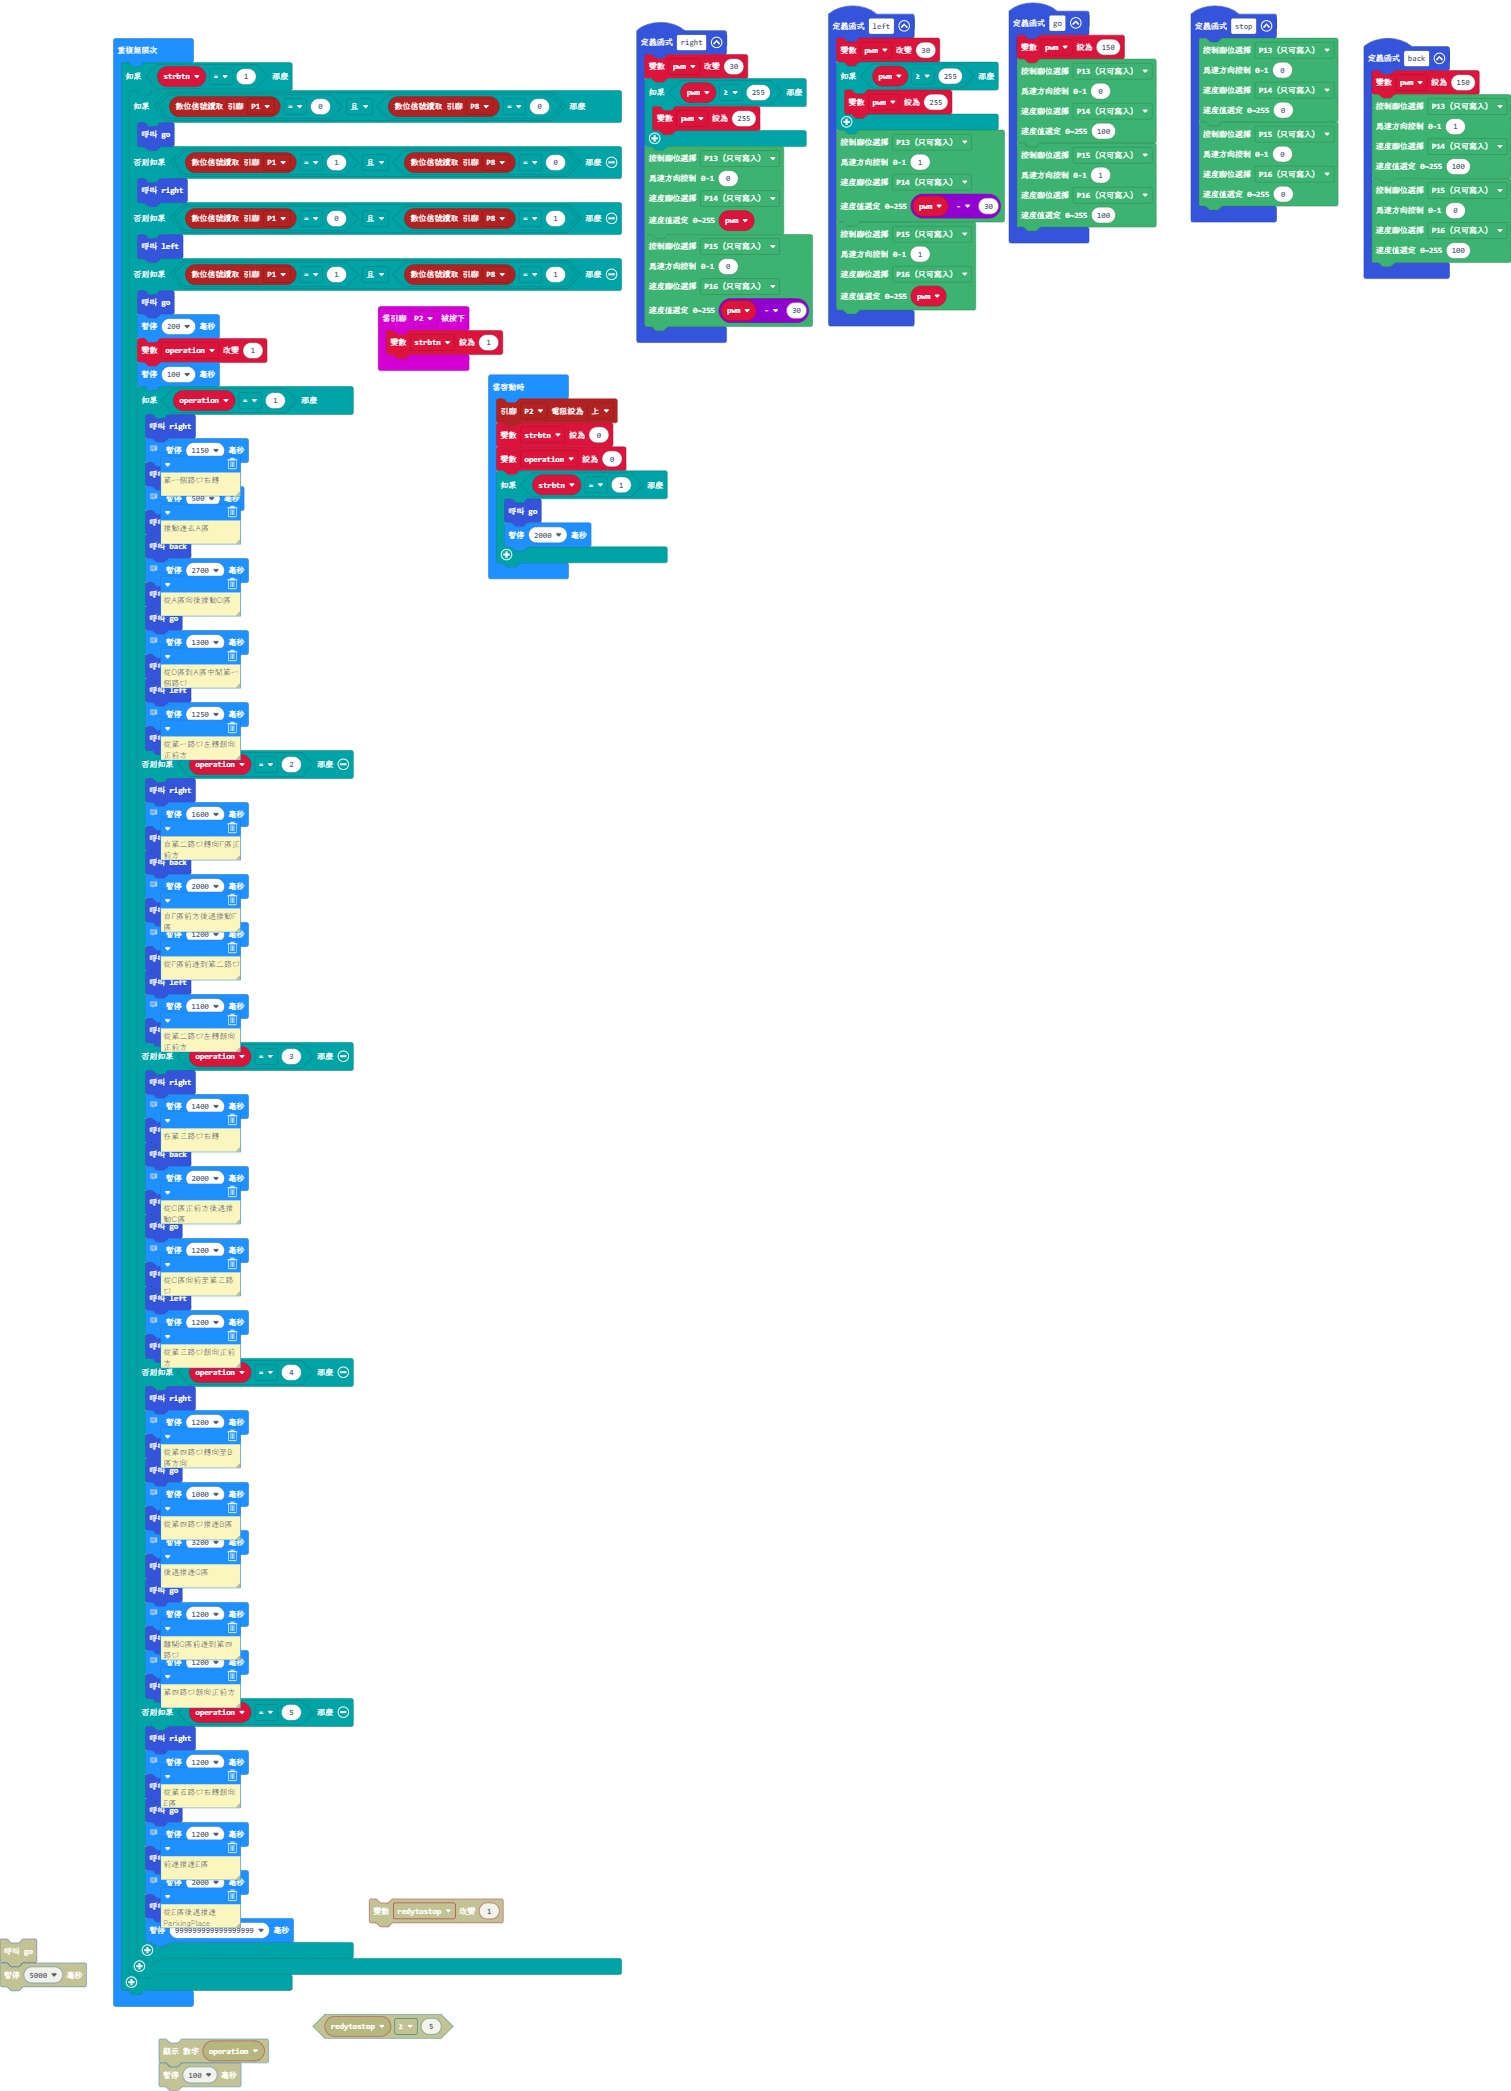
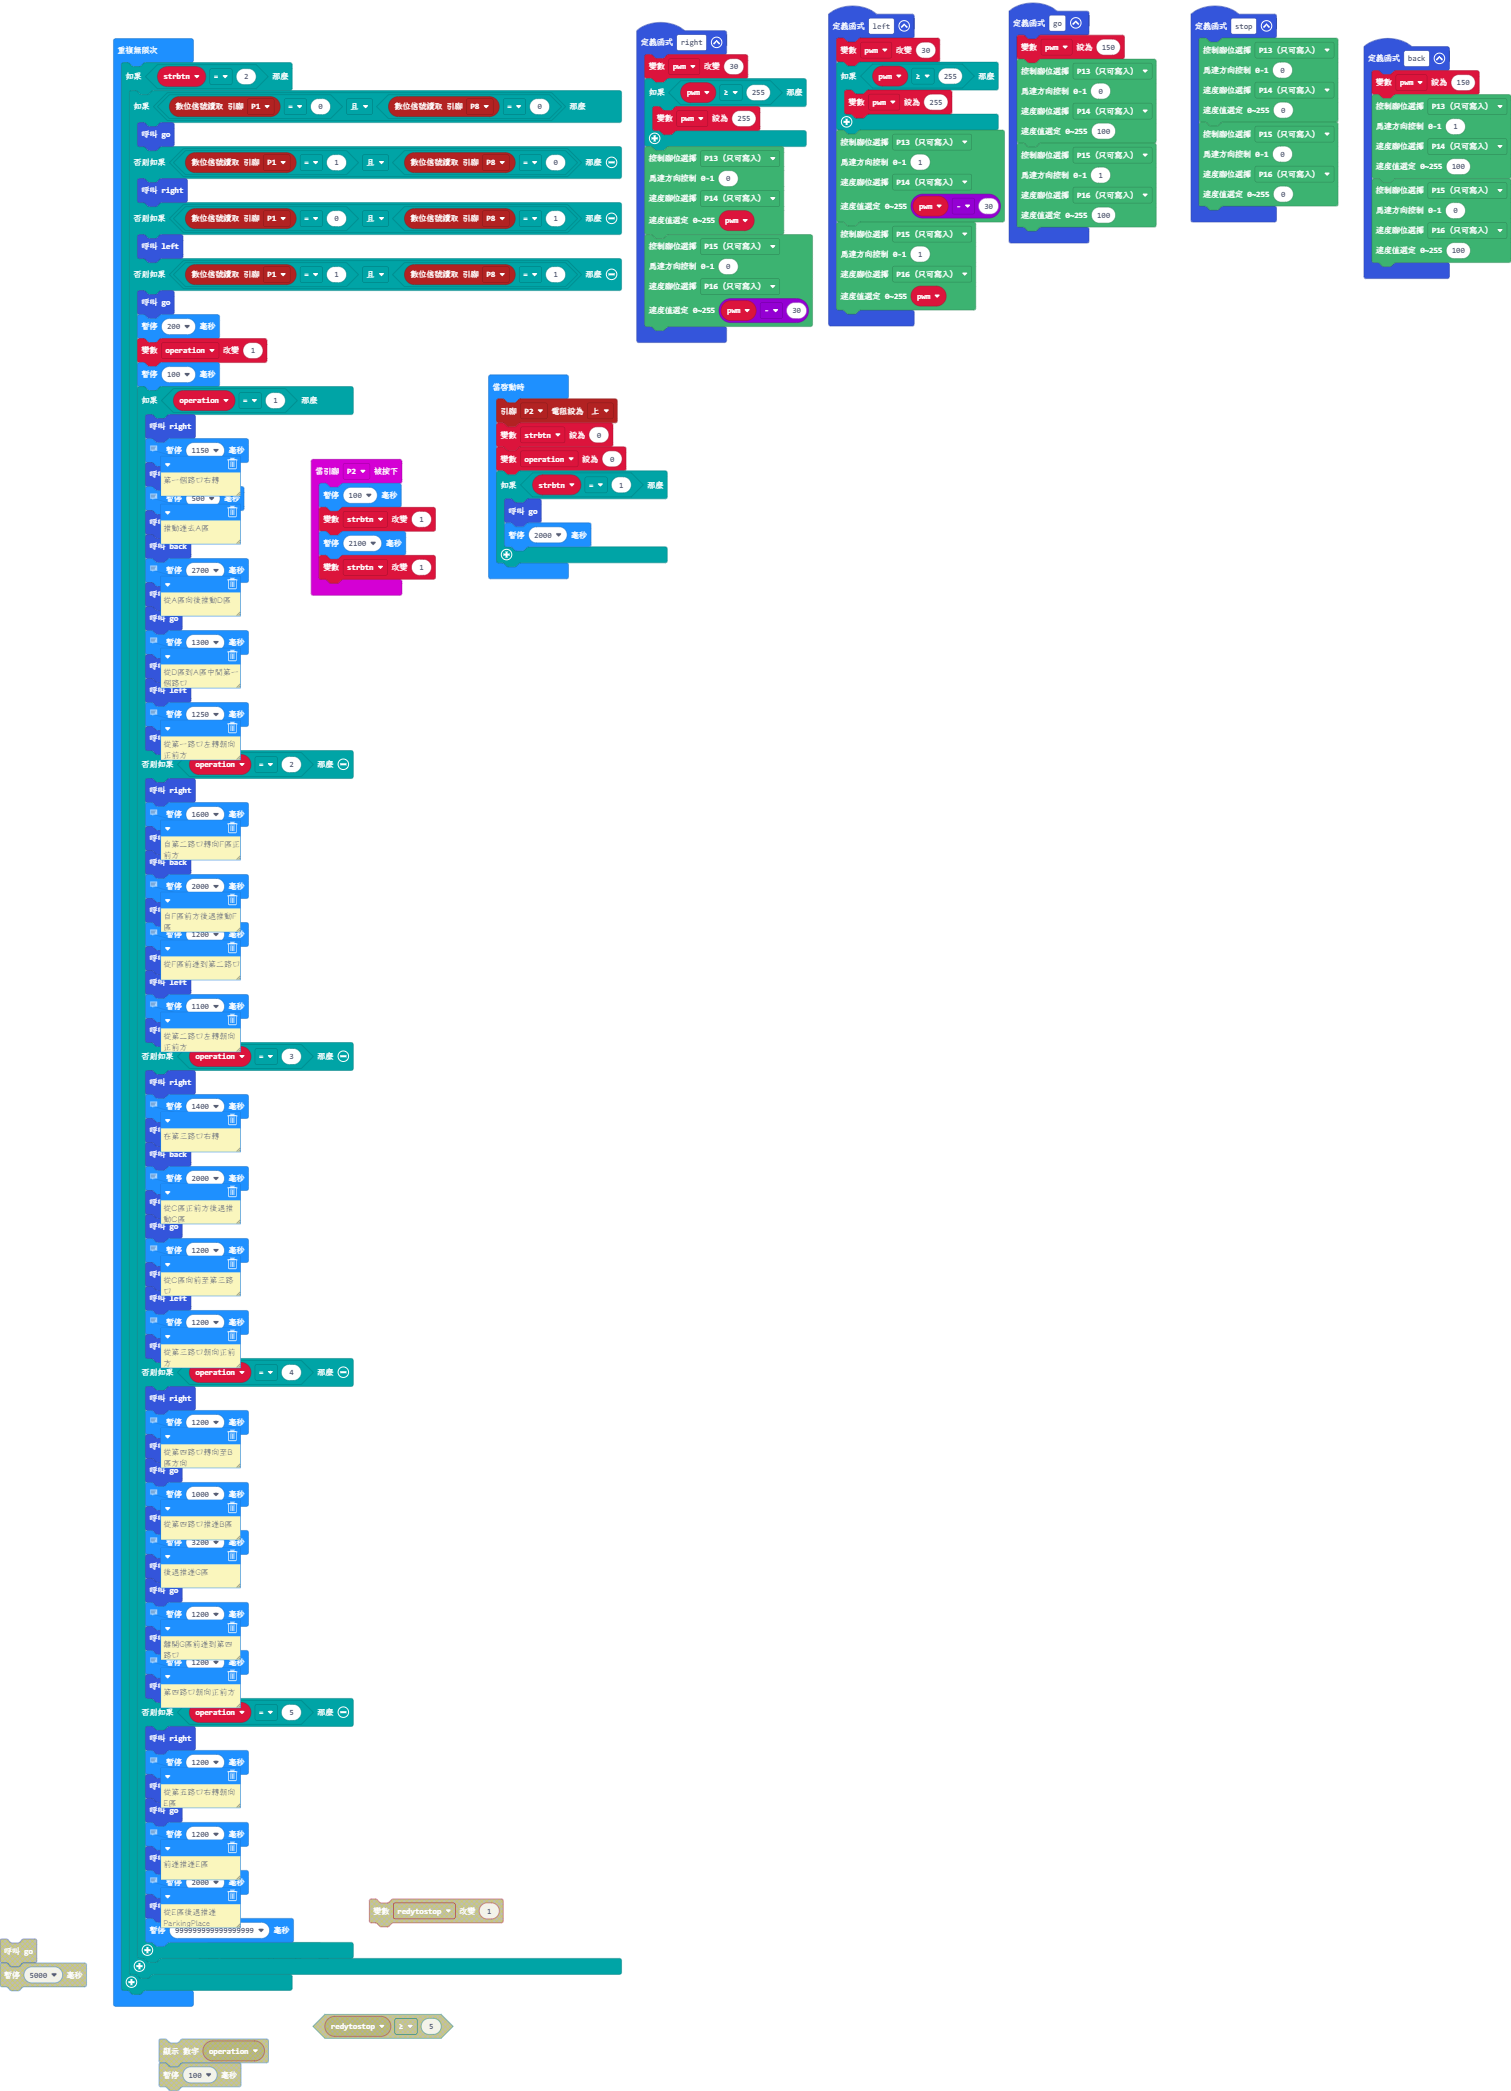
更新 main.blocks, main.ts

Changed region(s): [[0.1866, 0.2176, 0.3111, 0.3109], [0.2488, 0.1243, 0.3422, 0.1865]]

diff --git a/main.ts b/main.ts
@@ -64,7 +64,10 @@ function stop () {
     )
 }
 input.onPinPressed(TouchPin.P2, function () {
-    strbtn = 1
+    basic.pause(100)
+    strbtn += 1
+    basic.pause(2100)
+    strbtn += 1
 })
 function go () {
     pwm = 150
@@ -82,16 +85,15 @@ function go () {
     )
 }
 let pwm = 0
-let strbtn = 0
 pins.setPull(DigitalPin.P2, PinPullMode.PullUp)
-strbtn = 0
+let strbtn = 0
 let operation = 0
 if (strbtn == 1) {
     go()
     basic.pause(2000)
 }
 basic.forever(function () {
-    if (strbtn == 1) {
+    if (strbtn == 2) {
         if (pins.digitalReadPin(DigitalPin.P1) == 0 && pins.digitalReadPin(DigitalPin.P8) == 0) {
             go()
         } else if (pins.digitalReadPin(DigitalPin.P1) == 1 && pins.digitalReadPin(DigitalPin.P8) == 0) {
